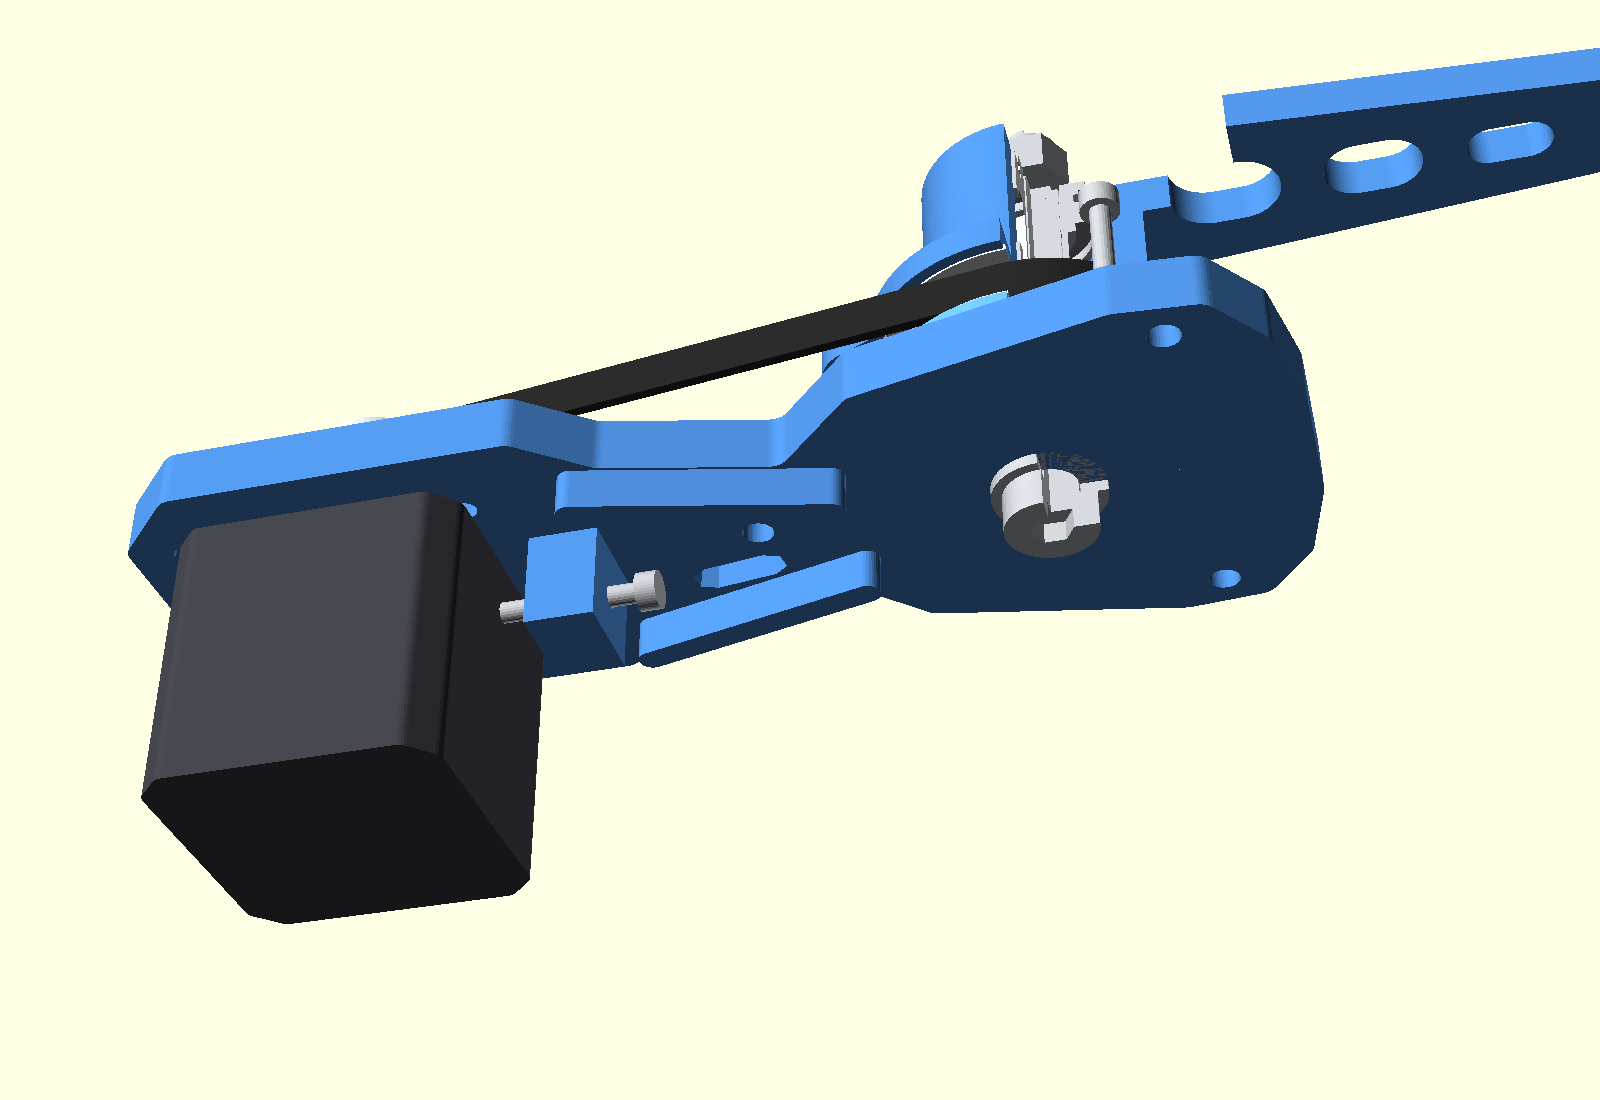
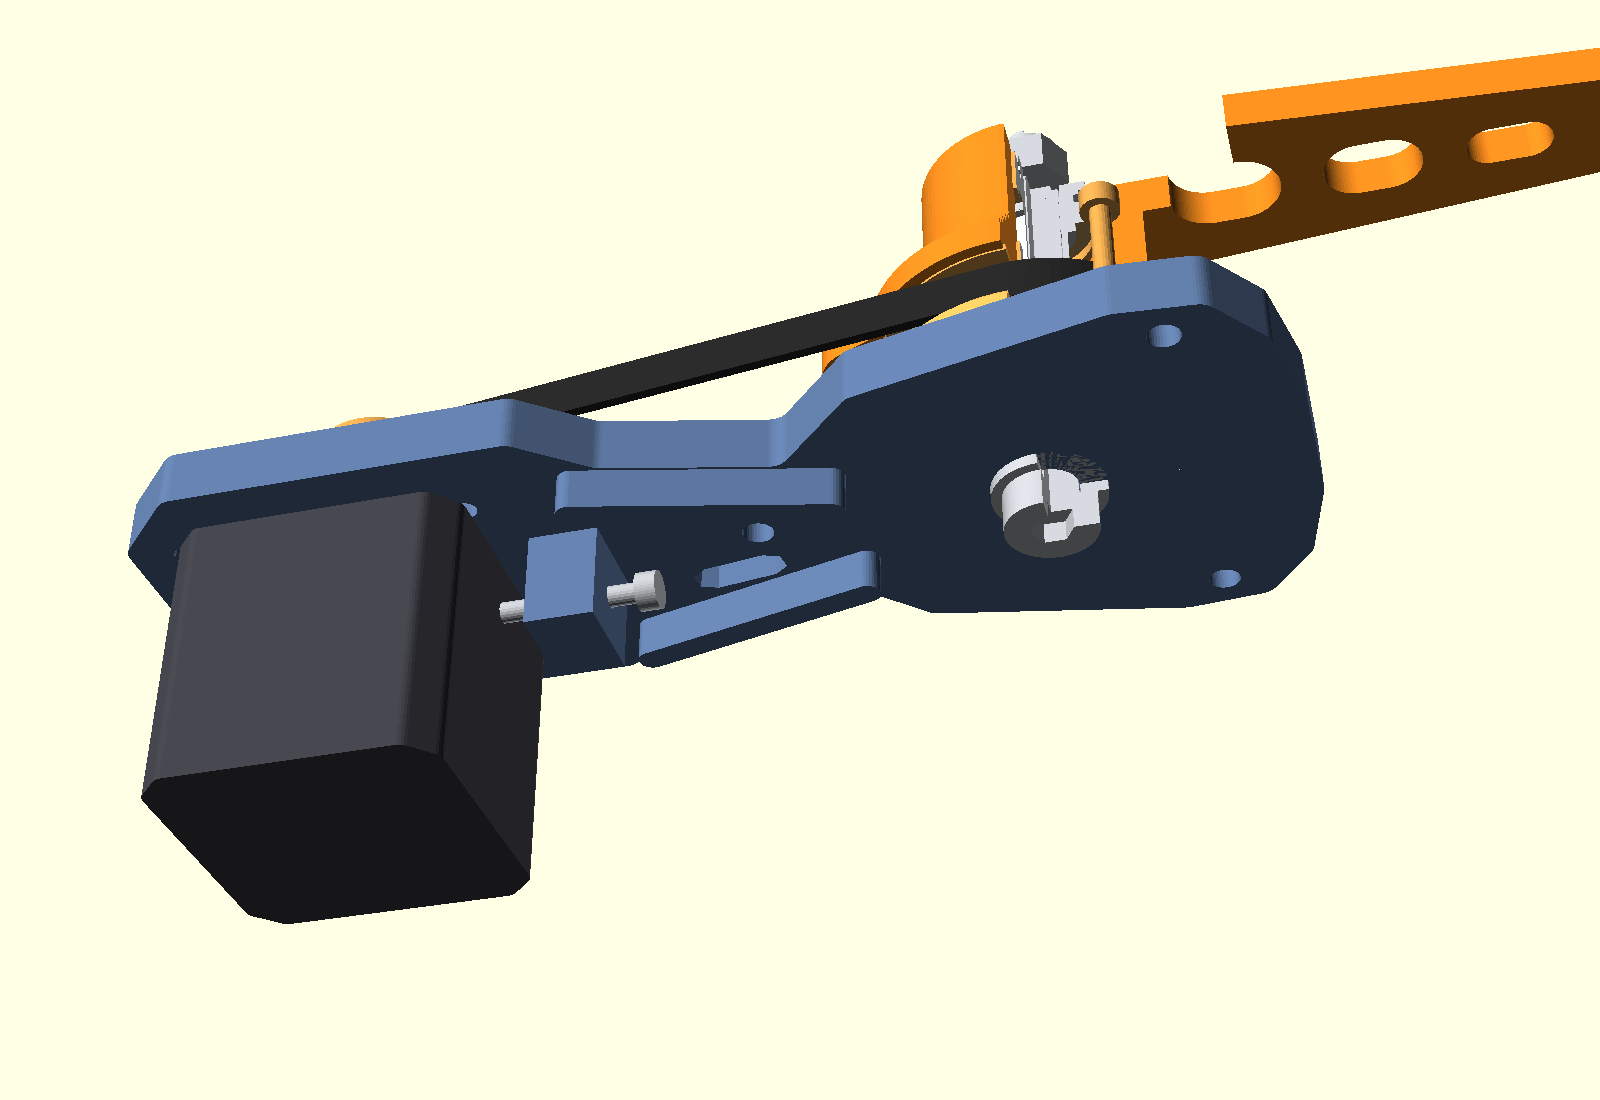
회전부/고정부 색 구분: 주황(회전) vs 블루·그레이(고정)
- 회전: 암 허브, 출력/입력 풀리, 클램프 링·볼트, 베어링 외륜·실드, 모터 축
- 고정: 베이스, 스트리퍼 볼트, 스페이서·와셔, 베어링 내륜, 너트, 모터
- 베어링 내·외륜을 다른 색으로 분리해 고정 적층/회전부 경계를 시각화
- DESIGN.md 색 규약 추가, 전체 뷰 렌더 갱신

https://claude.ai/code/session_014RXXExQczonAJzcw2caz8Y

Changed region(s): [[0.0625, 0.0309, 1.0, 0.6182], [0.75, 0.4945, 0.7812, 0.5564]]

diff --git a/DESIGN.md b/DESIGN.md
@@ -113,6 +113,15 @@
 * **잭 스크류** — 모터 **앞쪽(출력 풀리 쪽)**, 베이스 **하면**에 잭 스크류 블록이 있습니다. 모터 몸체가 베이스 아래에 매달려 있으므로 블록도 같은 높이에 있어야 하며, M3 스크류 끝이 모터 앞면을 **출력 풀리 반대쪽으로 밀어** 축간거리를 늘려 장력을 거는 구조입니다.
 * **출력축 측** — 베이스에 고정된 스트리퍼 볼트 위에서 암이 회전하며, 암 허브에 체결된 GT2 60T 출력 풀리가 폐루프 GT2 벨트(6mm 폭)로 20T 입력 풀리와 연결됩니다. 암은 출력 풀리와 한 몸으로 회전하여 베이스 바깥쪽으로 뻗어 나갑니다.
 
+### 조립 모델 색 규약
+
+`scad/` 조립 모델과 렌더 이미지는 **회전부를 주황 계열, 고정부를 블루/그레이 계열**로 구분합니다.
+
+* 주황(회전) — 암 허브/암, 출력 풀리, 클램프 링, 클램프 볼트·너트, 베어링 **외륜**·실드, 입력 풀리, 모터 축
+* 블루/그레이(고정) — 베이스 플레이트, 스트리퍼 볼트, 스페이서, 심·평와셔, 베어링 **내륜**, M6 너트, 모터 몸체, 모터 체결 볼트, 잭 스크류
+
+베어링이 두 색으로 갈리는 것이 이 관절의 핵심입니다 — 내륜 계통은 볼트로 압축된 고정 적층이고, 외륜+허브만 회전합니다.
+
 ---
 
 ## 2. 감속비 / 풀리 치수 조합
